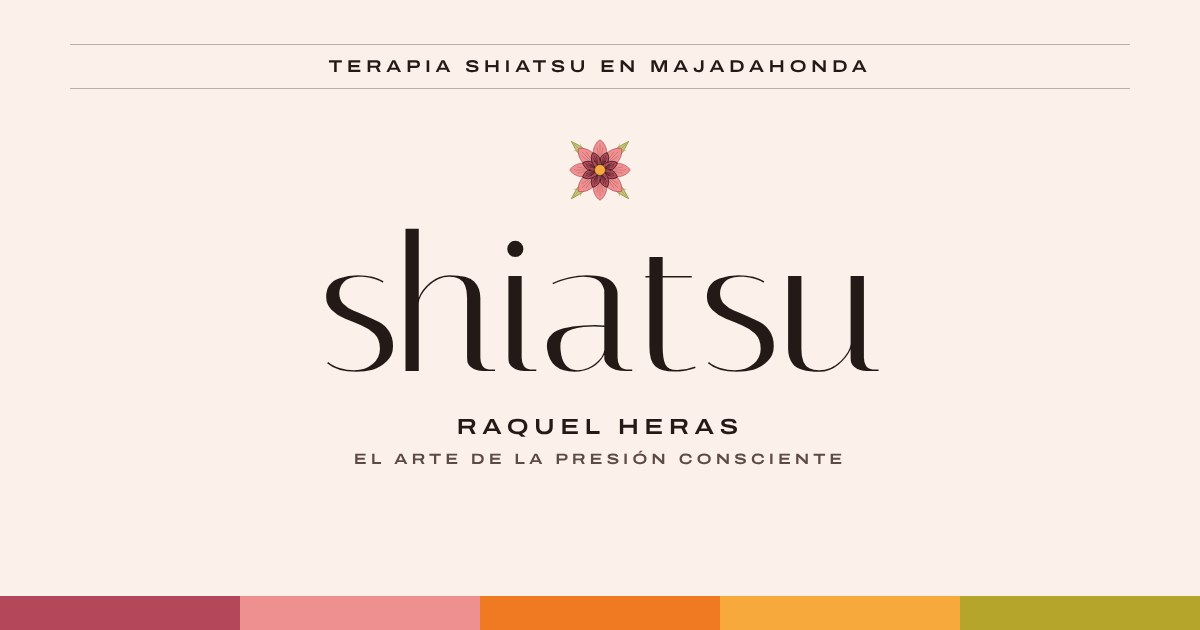
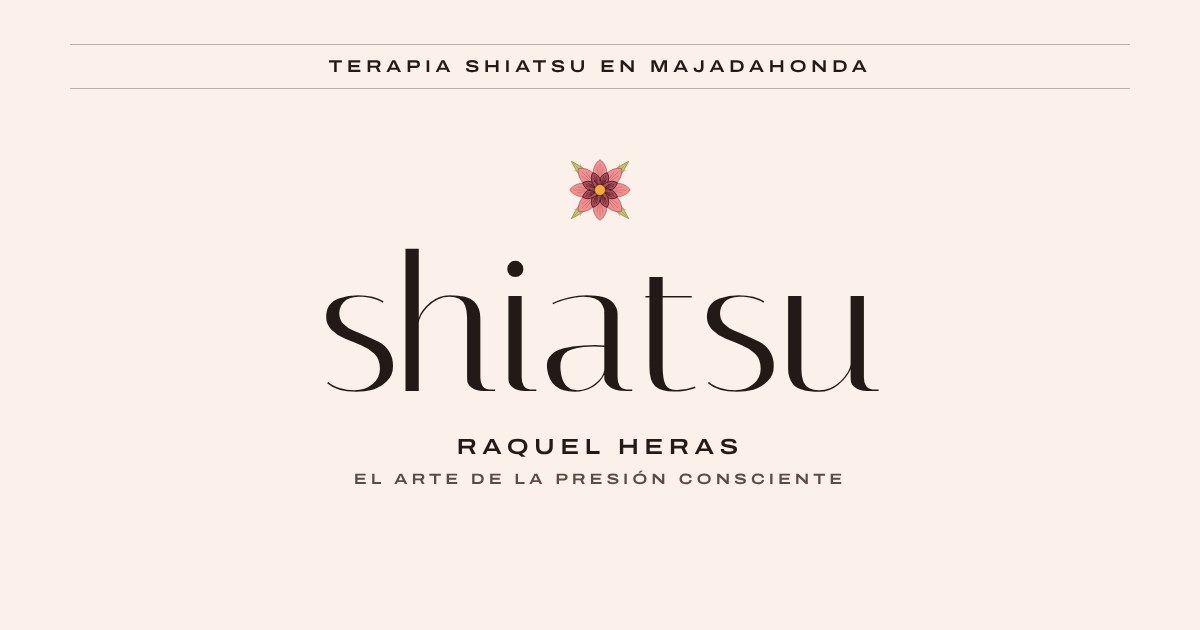
Remove colour strip from link preview image
Claude-Session: https://claude.ai/code/session_0157qdfkJwXnppXS5xpvTMWf

diff --git a/tools/preview.html b/tools/preview.html
@@ -4,15 +4,12 @@
 html,body{margin:0}
 body{width:1200px;height:630px;background:#FCF0EA;color:#231A17;font-family:Archivo,sans-serif;position:relative;overflow:hidden}
 .band{position:absolute;left:70px;right:70px;top:44px;padding:12px 0;border-top:1px solid rgba(35,26,23,.3);border-bottom:1px solid rgba(35,26,23,.3);text-align:center;font-stretch:125%;font-weight:600;text-transform:uppercase;letter-spacing:.26em;font-size:17px}
-.c{position:absolute;inset:0;display:flex;flex-direction:column;align-items:center;justify-content:center;padding-bottom:40px}
+.c{position:absolute;inset:0;display:flex;flex-direction:column;align-items:center;justify-content:center;padding-bottom:0}
 img{width:92px;margin-bottom:6px}
 h1{font-family:Italiana,serif;font-weight:400;font-size:190px;line-height:.9;margin:0}
 .n{font-stretch:125%;font-weight:600;text-transform:uppercase;letter-spacing:.24em;font-size:22px;margin-top:22px}
 .l{font-stretch:125%;font-weight:600;text-transform:uppercase;letter-spacing:.26em;font-size:15px;color:#5C4A44;margin-top:12px}
-.sw{position:absolute;left:0;right:0;bottom:0;height:34px;display:flex}
-.sw i{flex:1}
 </style></head><body>
 <div class="band">Terapia shiatsu en Majadahonda</div>
 <div class="c"><img src="../assets/botanica-flor.svg"><h1>shiatsu</h1><div class="n">Raquel Heras</div><div class="l">El arte de la presión consciente</div></div>
-<div class="sw"><i style="background:#B4485A"></i><i style="background:#EE9090"></i><i style="background:#F07A21"></i><i style="background:#F7A93B"></i><i style="background:#B5A52A"></i></div>
 </body></html>

diff --git a/index.html b/index.html
@@ -12,7 +12,7 @@
   <meta property="og:title" content="Shiatsu en Majadahonda | Raquel Heras">
   <meta property="og:description" content="Un espacio de calma para escuchar el cuerpo y liberar tensiones. Reserve su sesión de shiatsu en Majadahonda.">
   <meta property="og:url" content="https://silkeht.github.io/Shiatsu/">
-  <meta property="og:image" content="https://silkeht.github.io/Shiatsu/assets/preview.jpg">
+  <meta property="og:image" content="https://silkeht.github.io/Shiatsu/assets/preview.jpg?v=2">
   <meta property="og:image:width" content="1200">
   <meta property="og:image:height" content="630">
   <meta property="og:image:alt" content="Shiatsu, Raquel Heras. Terapia shiatsu en Majadahonda">
